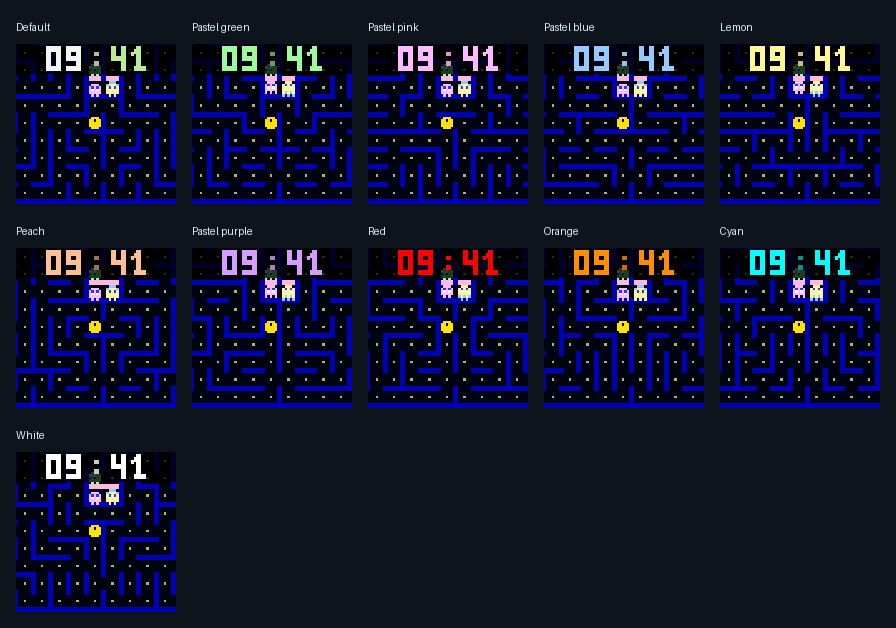
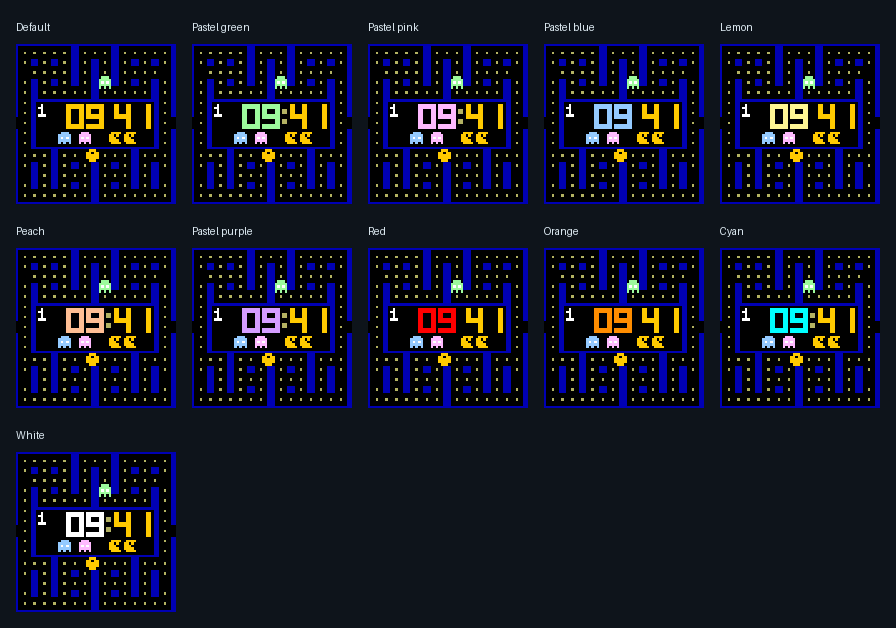
CHORE: Pac-Man documentation and previews match the current Pac-Man
The README describes playing Pac-Man yourself (keys, the touch controller, browser and Bluetooth game controllers), the architecture notes and file map cover the new face, and the old Pac-Man preview animations are replaced by the current one.

Changed region(s): [[0.0, 0.0605, 1.0, 0.3328], [0.0, 0.3933, 1.0, 0.6656], [0.0, 0.6959, 0.2188, 0.9984]]

diff --git a/firmware/tools/preview/refresh.py b/firmware/tools/preview/refresh.py
@@ -112,12 +112,10 @@ def refresh(out, web_out, work, reuse):
     boot = work / 'boot' if reuse else showcase.render_boot(work)
     small_gif(boot, out / 'boot.gif', 400)
 
-    # Refresh the shorter examples too, using the same current Pac-Man/Words replay.
+    # Refresh the shorter examples too, using the same current Words replay.
     for name, face, start, end in (
         ('mario-hour', 'mario', 42000, 64000),
         ('luigi-hour', 'luigi', 42000, 64000),
-        ('pacman-refined', 'pacman', 0, 25000),
-        ('pacman-transparent-clock', 'pacman', 0, 16000),
         ('word-transitions', 'word', 19200, 35200),
     ):
         frames = clip(work / face, work, name, start, end)

diff --git a/README.md b/README.md
@@ -29,7 +29,7 @@ There are nine clock faces. Each has its own firmware image, so the clock runs o
 | <img src="docs/previews/word.gif" alt="Words clock" width="128" height="128"> | Words | `word` | The time in 16 languages, with a weekday, date and minute bar. Choose letter shuffle, letter lift, pixel dissolve, soft wipe, all four in rotation, or no transition. |
 | <img src="docs/previews/mario.gif" alt="Mario clock" width="128" height="128"> | Mario | `mario` | Mario in scrolling worlds, with clock blocks showing the time. |
 | <img src="docs/previews/luigi.gif" alt="Luigi clock" width="128" height="128"> | Luigi | `luigi` | A Luigi version of the scrolling-world clock. |
-| <img src="firmware/web/faces/pacman.png" alt="Pac-Man clock" width="128" height="128"> | Pac-Man | `pacman` | A game that plays itself in a maze of 8 by 7 lanes with the clock box in the middle: the level top left, the score bottom left, the spare lives bottom right and the time on the right. It has a score (10 a dot, 50 a power pellet, 200 and doubling for the ghosts) and a life more every 6000 points, up to three spares. Four ghosts wait in the box, which dims whatever they sit over, and leave through its floor. Every level gets a new maze that is as different from the last as it can be. Border, dots, hours and minutes colour and each ghost have colour choices. |
+| <img src="firmware/web/faces/pacman.png" alt="Pac-Man clock" width="128" height="128"> | Pac-Man | `pacman` | A game that plays itself in a maze of 8 by 7 lanes with the clock box in the middle: the level top left, the score bottom left, the spare lives bottom right and the time on the right. It has a score (10 a dot, 50 a power pellet, 200 and doubling for the ghosts) and a life more every 6000 points, up to three spares. Four ghosts wait in the box, which dims whatever they sit over, and leave through its floor. Every level gets a new maze that is as different from the last as it can be. Pac-Man plays like a novice, casual, good or expert player, picked for each new game. You can take over from the settings page (see [Playing Pac-Man yourself](#playing-pac-man-yourself)). Border, dots, hours and minutes colour and each ghost have colour choices. |
 
 Football starts with Eredivisie and KNVB Cup selected, and the Dutch national team as a favourite. Competitions are grouped by country, and favourite teams have a searchable picker.
 
@@ -142,7 +142,7 @@ Set **Network → Clock name** to identify each clock in MQTT and WLED, for exam
 
 Open the clock's address from a phone or computer on the same network. Most changes save automatically and apply while the clock runs. Swapping blue and green needs **Save & restart**. Changing Wi-Fi or installing a face also restarts the clock.
 
-The page has controls for brightness, rotation, time format, timezone, time server and the current face. Sports faces add page timing and favourites. Words adds language and transition choices. Mario and Luigi add the world picker. Pac-Man adds its colour controls; the default clock colour keeps off-white hours and green minutes.
+The page has controls for brightness, rotation, time format, timezone, time server and the current face. Sports faces add page timing and favourites. Words adds language and transition choices. Mario and Luigi add the world picker. Pac-Man adds its colour controls (the clock is yellow by default) and the Play yourself card.
 
 The page and its assets are stored in firmware flash. A new setting only appears after installing firmware that contains it. If an updated page still looks old, reload it without using the browser cache.
 
@@ -161,6 +161,17 @@ Most faces can switch to a dim numeric clock during chosen hours, from sunset to
 Mario and Luigi scenes follow sunrise and sunset rather than the night schedule. A dark room can switch them to the dim numeric clock.
 
 Changes tied to sunrise and sunset need a detected location. Automatic brightness and the night schedule are off by default.
+
+### Playing Pac-Man yourself
+
+With the Pac-Man face, the Clock mode card on the settings page has a **Play yourself** card. Any move takes over from the computer; Pac-Man keeps going and takes your turn at the next crossing. The clock plays again after 20 seconds without a move, or at once when you press **AI**.
+
+- **Keys:** arrow keys or W A S D.
+- **Touch:** **Open full-screen controller** fills the screen. Put a finger down anywhere and drag: a joystick appears under your finger and follows it, so the direction is simply the way your finger moves. Letting go keeps Pac-Man going. Android phones vibrate briefly; iPhones do not give feedback while dragging.
+- **A game controller on your phone or computer:** pair it with that device (Bluetooth or USB), press a button once so the browser sees it, then use the d-pad or left stick. Start hands control back to the clock. This costs the clock nothing.
+- **A Bluetooth LE controller paired with the clock itself (experimental, off by default):** turn **Bluetooth** on in the card (this restarts the clock), press **Pair controller** (the clock restarts into Bluetooth), switch the controller to pairing mode and keep it within a metre or two. A paired controller connects again whenever it is switched on. Only Bluetooth LE controllers work (for example Xbox Series controllers on recent firmware, which I have not tried with this firmware). PlayStation, Switch and most Android gamepads use classic Bluetooth and do not. This part has never been tried with a real controller.
+
+Bluetooth needs about 75 KB of the clock's memory, so it only runs while a controller is paired (or for about 70 seconds after you press Pair); with the setting on and nothing paired, the clock uses no extra memory. While it runs, WLED, Canvas, Animations, DLNA, notifications and the telnet console are switched off; Home Assistant MQTT keeps working. A firmware update restarts the clock first, so the download has the whole memory. Forgetting the controller restarts the clock back to normal.
 
 ### Control from Home Assistant (MQTT, optional)
 
@@ -335,7 +346,7 @@ These images were rendered from the current code on 14 October 2026. They help r
 
 As of 19 October 2026 (v0.6.1), the firmware builds with ESP-IDF and Arduino as a component. The shared runtime, local setup and settings, brightness and night display, signed updater, nine faces, Home Assistant and MQTT control, the WLED overlay, Canvas and GIF saving, picture notifications and the Storage page are implemented. The drawing and feed code are still being cleaned up.
 
-The release workflow builds all nine faces, and the v0.6.1 release built successfully. A build does not mean every face has been checked on a panel after every change. The recent Words transitions and Pac-Man changes have been checked in native previews and browser mocks; the latest Pac-Man clock-colour change has not had a firmware build or device check.
+The release workflow builds all nine faces, and the v0.6.1 release built successfully. A build does not mean every face has been checked on a panel after every change. The recent Words transitions have been checked in native previews and browser mocks. Pac-Man is now the former Pac-Man Classic (the older random-maze Pac-Man is gone) and has been flashed and run on a panel, but its Bluetooth controller support has not been tried with a real controller.
 
 Football and Home have had device checks, including feeds, saved settings, telnet, picture notifications, GIF search, the display quality levels and the Storage page. A clock has updated itself over Wi-Fi from a GitHub release. F1 has had a short device check of memory use, update checking and its cache.
 

diff --git a/docs/ARCHITECTURE.md b/docs/ARCHITECTURE.md
@@ -22,6 +22,20 @@ are ready. A successful build does not establish hardware or live-feed reliabili
   text rows, a 3x5 font). Words keeps its language in the settings' `numberFont` byte (the Football "alternative digits"
   setting), so the stored settings record did not change. Mario takes the night over from the red night clock
   (`IClockface::handlesNight/setNight`) and shows World 1-2 underground.
+- Pac-Man (`clockfaces/pacman`) is a feedless face whose maze is a random 8 x 7 lattice of lanes (3 px walls, dots 4 px apart)
+  with the clock box in the middle; it replaced an older arcade-style Pac-Man, and the old `pacmanclassic` mode no longer exists.
+  Its AI plays at a skill picked for each game (novice to expert). `Clockface::steer(dir)` (0 up, 1 right, 2 down, 3 left, -1 back
+  to the computer) takes a human move from `POST /api/pacman/steer`, the keys and the touch controller on the settings page.
+- Bluetooth LE controller (`lib/core/Gamepad.cpp`, `HidReport.h`, `sdkconfig.bt`; `UM_GAMEPAD`, build option `ULTIMATRIX_BLUETOOTH`,
+  Pac-Man only): the clock is the NimBLE central. It scans for devices advertising the HID service (0x1812) or a gamepad appearance,
+  bonds (NimBLE keeps the bond in NVS namespace `nimble_bond`), discovers the HID report map, subscribes to input reports and turns
+  the d-pad or left stick into steering. Costs: about 190 KB of flash, 10 KB of static RAM (the face's budget is 70 KB) and about
+  75 KB of heap while it runs, leaving roughly 25 KB free with a worst case near 5 KB. The start is decided at boot: the stack runs
+  only when the setting (NVS `btPad`) is on and a controller is bonded, or after **Pair**, which sets an RTC flag and restarts the
+  clock into Bluetooth for about 70 seconds (nothing paired by then, or Forget, restarts it back out). Otherwise `gamepad::boot()`
+  hands the controller memory back to the heap. While the stack runs, WLED/Canvas/GIFs (`wled::suspend`), DLNA, notifications and
+  telnet are off and an update restarts the clock first (an update-only boot never starts Bluetooth); MQTT stays. Only the parser
+  is unit-tested (on the host); connecting, bonding and steering have not been tried with a real controller.
 - Tetris is a build with no feeds: the falling-piece clock (time and date) with the same runtime, settings page
   and previews. It is built the way Football and F1 were reshaped: `lib/tetris` holds const data and layout functions,
   `TetrisScreens` decides what falls when and fills a fixed-size `Frame`, `TetrisRenderer` paints a `Frame`, and the

diff --git a/.claude/filemap.md b/.claude/filemap.md
@@ -48,7 +48,9 @@ ESP32 HUB75 LED-matrix clock firmware (ESP-IDF + Arduino component), 8 clock fac
 - Mqtt.cpp/.h: optional MQTT link to Home Assistant (default off): config in NVS, discovery entities, commands queued by the esp-mqtt task and applied by poll(), state publishing, 10-second CPU task/refill diagnostics, changed-screen MQTT camera snapshots, a dynamic Saved picture dropdown for Canvas slots, a Face select (signed face install), Display mode sensor
 - DlnaRenderer.cpp/.h, DlnaDescriptions.h: DLNA media renderer (HA Browse media/Play/Stop of pictures; SSDP + SOAP, polling only) and UPnP service descriptions; wired in main.cpp, untested on device
 - AdminPin.cpp/.h: optional admin PIN (salted hash in NVS key adminPin), login tokens in RAM and the lock-out; the guard is in main.cpp BoundedPost, the page side in web/auth.js
+- faces/BoldFont.h: arcade fonts (Invaders): bold 7 px capitals, block digits at any size, thick 12x22 level digits (Pong keeps its own copy of the capitals in its Clockface.cpp)
 - Gamepad.cpp/.h, HidReport.h: Pac-Man only (UM_GAMEPAD, -DULTIMATRIX_BLUETOOTH, extra config in firmware/sdkconfig.bt): BLE HID game controller (NimBLE central: pair/forget/enable, GATT discovery, report-map parser for d-pad/stick); off by default (NVS btPad), uses ~90 KB heap when on
+- PlaySocket.cpp/.h: Pong/Invaders only: the game controller WebSocket (GET /play on port 80, text frames "230"/"4"/"-1", first frame "t<token>" with a PIN set), same handshake as lib/wled/WledWs.cpp; read in the main loop, calls main.cpp playSteer
 - Tlds.h: generated list of IANA top-level domains (tools/gen_tlds.py) used by main.cpp HostGuard (DNS-rebinding guard; also the accessScope client filter)
 - Storage.cpp/.h: lists the flash disk (saved drawings vs cached data: LittleFS files such as Football's, and the F1/MotoGP cache in NVS namespace um-f1cache) and clears the cached data; GET /api/storage, POST /api/storage/clear, Advanced → Storage in settings; drawings are never removed
 - Notice.cpp/.h: full-panel text/image notifications from Home Assistant, drawn over any face by main.cpp. NoticeImage.cpp/.h: bounded asynchronous HTTP(S) UMIMG/JPEG/PNG downloads and 64x64 fit/fill; NoticePng.cpp/.h decodes PNG with image-sized history and alpha over black; normal-priority images alternate with optional text
